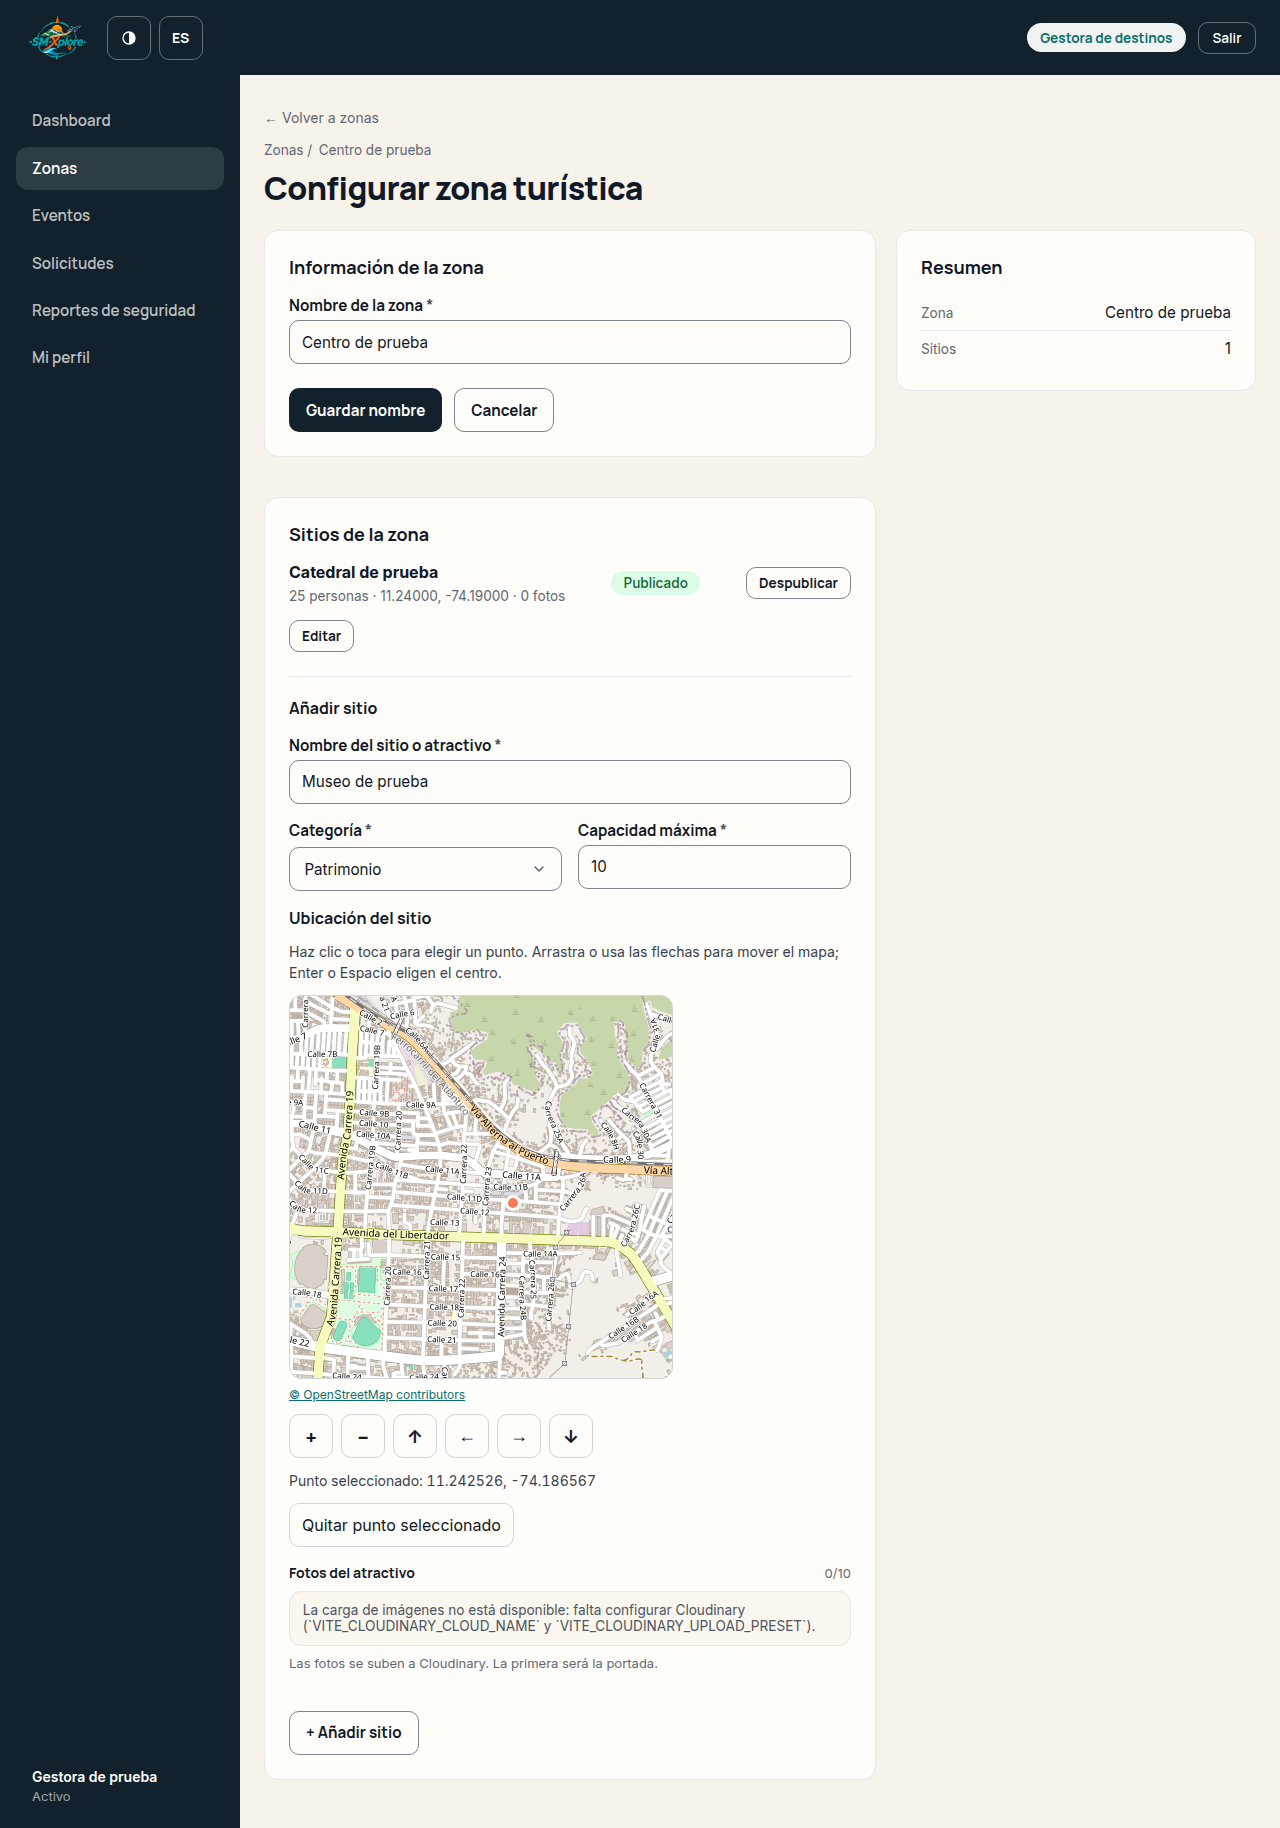
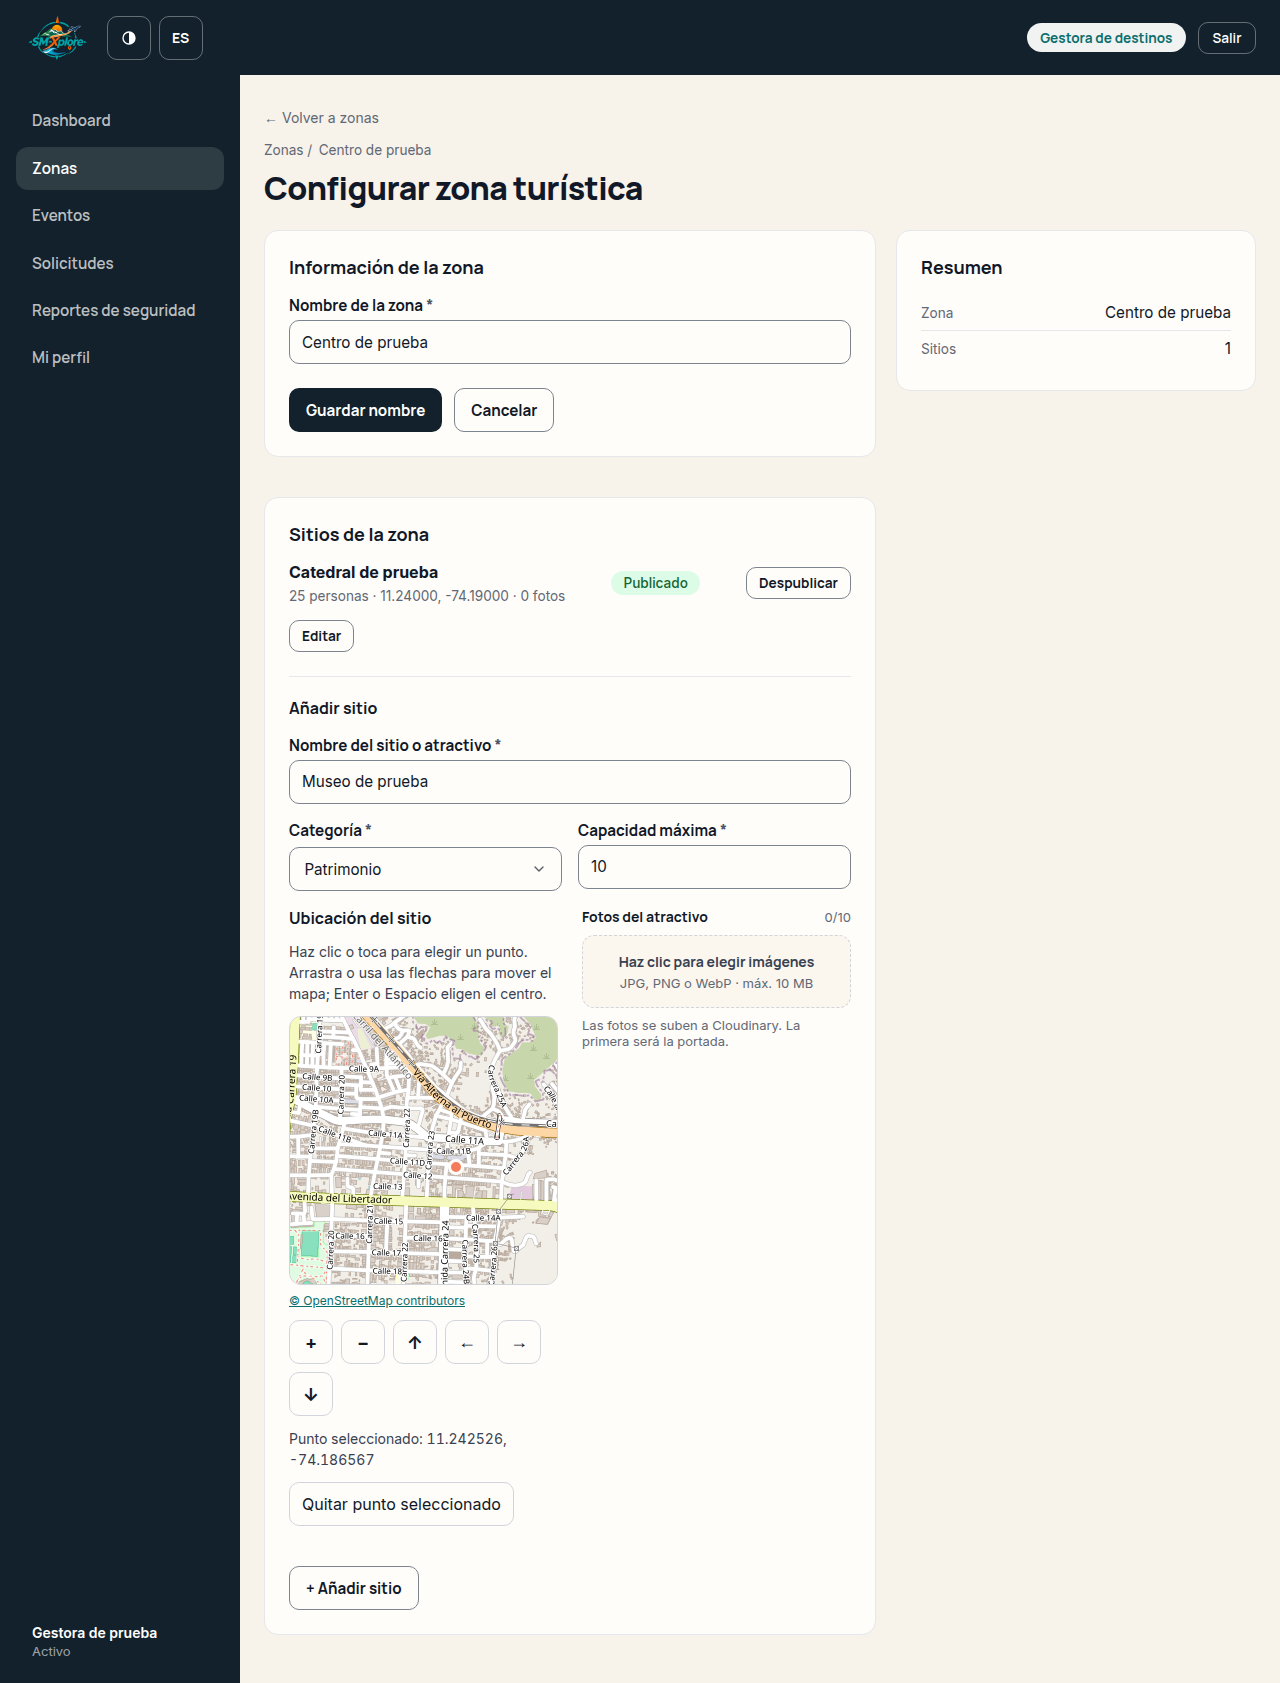
Add: file picker to upload image files on cloudinary.

diff --git a/src/pages/zones/ZoneFormPage.tsx b/src/pages/zones/ZoneFormPage.tsx
@@ -426,26 +426,27 @@ export default function ZoneFormPage() {
                           />
                         </div>
 
-                        <LocationPicker
-                          key={site.id}
-                          value={editLocation}
-                          onChange={(point) => {
-                            setEditLocation(point)
-                            setEditError(null)
-                          }}
-                          defaultCenter={site}
-                          disabled={isSavingSite}
-                        />
+                        <div className={styles.siteMediaGrid}>
+                          <LocationPicker
+                            key={site.id}
+                            value={editLocation}
+                            onChange={(point) => {
+                              setEditLocation(point)
+                              setEditError(null)
+                            }}
+                            defaultCenter={site}
+                            disabled={isSavingSite}
+                          />
 
-                        <ImageUploader
-                          className={styles.full}
-                          label={t("Fotos del atractivo")}
-                          folder="sm-xplore/sites"
-                          value={editPhotoUrls}
-                          onChange={setEditPhotoUrls}
-                          onUploadingChange={setEditPhotosUploading}
-                          hint={t("Las fotos se suben a Cloudinary. La primera será la portada.")}
-                        />
+                          <ImageUploader
+                            label={t("Fotos del atractivo")}
+                            folder="sm-xplore/sites"
+                            value={editPhotoUrls}
+                            onChange={setEditPhotoUrls}
+                            onUploadingChange={setEditPhotosUploading}
+                            hint={t("Las fotos se suben a Cloudinary. La primera será la portada.")}
+                          />
+                        </div>
 
                         {editError !== null && (
                           <p
@@ -564,25 +565,26 @@ export default function ZoneFormPage() {
                   />
                 </div>
 
-                <LocationPicker
-                  value={newLocation}
-                  onChange={(point) => {
-                    setNewLocation(point)
-                    setAddError(null)
-                  }}
-                  defaultCenter={sites[0]}
-                  disabled={isAddingSite}
-                />
+                <div className={styles.siteMediaGrid}>
+                  <LocationPicker
+                    value={newLocation}
+                    onChange={(point) => {
+                      setNewLocation(point)
+                      setAddError(null)
+                    }}
+                    defaultCenter={sites[0]}
+                    disabled={isAddingSite}
+                  />
 
-                <ImageUploader
-                  className={styles.full}
-                  label={t("Fotos del atractivo")}
-                  folder="sm-xplore/sites"
-                  value={newPhotoUrls}
-                  onChange={setNewPhotoUrls}
-                  onUploadingChange={setNewPhotosUploading}
-                  hint={t("Las fotos se suben a Cloudinary. La primera será la portada.")}
-                />
+                  <ImageUploader
+                    label={t("Fotos del atractivo")}
+                    folder="sm-xplore/sites"
+                    value={newPhotoUrls}
+                    onChange={setNewPhotoUrls}
+                    onUploadingChange={setNewPhotosUploading}
+                    hint={t("Las fotos se suben a Cloudinary. La primera será la portada.")}
+                  />
+                </div>
 
                 {addError !== null && (
                   <p className={`${styles.feedback} ${styles.error}`} role="alert">

diff --git a/e2e/site-location-picker.spec.ts b/e2e/site-location-picker.spec.ts
@@ -104,6 +104,14 @@ for (const width of [320, 375, 768, 1280]) {
       const form = submit.locator('..').locator('..')
       const surface = form.getByRole('button', { name: selectName })
       await ready(surface)
+      const mediaLayout = await form.getByRole('group', { name: /^(Ubicación del sitio|Attraction location)$/ }).evaluate((picker) => {
+        const uploader = picker.nextElementSibling!
+        const a = picker.getBoundingClientRect()
+        const b = uploader.getBoundingClientRect()
+        return { sameRow: Math.abs(a.top - b.top) < 1, beside: b.left >= a.right, below: b.top >= a.bottom }
+      })
+      expect(mediaLayout.sameRow).toBe(width >= 768)
+      expect(width >= 768 ? mediaLayout.beside : mediaLayout.below).toBe(true)
       await expect(page.getByLabel(es ? 'Latitud' : 'Latitude', { exact: true })).toHaveCount(0)
       await expect(page.getByLabel(es ? 'Longitud' : 'Longitude', { exact: true })).toHaveCount(0)
       const name = form.getByLabel(es ? 'Nombre del sitio o atractivo' : 'Site or attraction name')

diff --git a/src/pages/zones/zones.module.css b/src/pages/zones/zones.module.css
@@ -206,3 +206,22 @@
 .back:active {
   color: var(--color-link-hover);
 }
+
+/* Ubicación y fotos comparten fila desde tablet. */
+.siteMediaGrid {
+  display: grid;
+  grid-template-columns: minmax(0, 1fr);
+  align-items: start;
+  gap: 1.5rem;
+}
+
+.siteMediaGrid > * {
+  min-width: 0;
+  overflow-wrap: anywhere;
+}
+
+@media (min-width: 768px) {
+  .siteMediaGrid {
+    grid-template-columns: repeat(2, minmax(0, 1fr));
+  }
+}

diff --git a/docs/plans/024-site-media-grid.md b/docs/plans/024-site-media-grid.md
@@ -1,0 +1,9 @@
+# Ubicación y fotos del sitio en dos columnas
+
+Cambio visual local: agrupar LocationPicker e ImageUploader en creación y edición de sitios. Una columna en móvil, dos columnas iguales desde 768 px; minmax(0,1fr), hijos con min-width:0 y texto con overflow-wrap para que respeten el grid. Sin cambios de contratos, estados ni dependencias.
+
+Verificación: puertas typecheck/lint/test/build y casos de navegador existentes en 320/375/768/1280, ES/EN, añadiendo comprobación geométrica de columnas. Revisión adversaria independiente. Skills normativas no disponibles en el catálogo; no se atribuye su uso.
+
+Resultados: typecheck/lint/test/build salida 0; 69 archivos y 469 pruebas pasan. Lint conserva 5 avisos previos. Navegador: 8/9 casos pasan en primera ejecución; 768 px ES agotó los 30 s esperando el selector inicial antes de las aserciones. Reejecución aislada del caso: 1/1 pasa. Sin desbordamiento en 320/375/768/1280 y geometría de columnas comprobada en ES/EN. Capturas existentes 023 actualizadas; inspección visual de 1280 confirma textos ajustados y columnas alineadas.
+
+Revisión independiente audit_media_grid: PASA CON RESERVAS, sin bloqueos en el diff final. Un wrapper duplicado transitorio se detectó y corrigió antes de build/E2E. Sin cambios de payload. No probado: Safari/iOS físico, zoom 200 %, carga Cloudinary real. No commit/push/PR.
